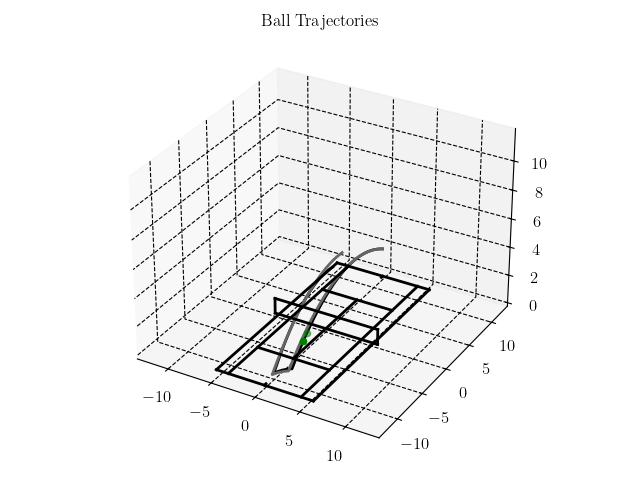
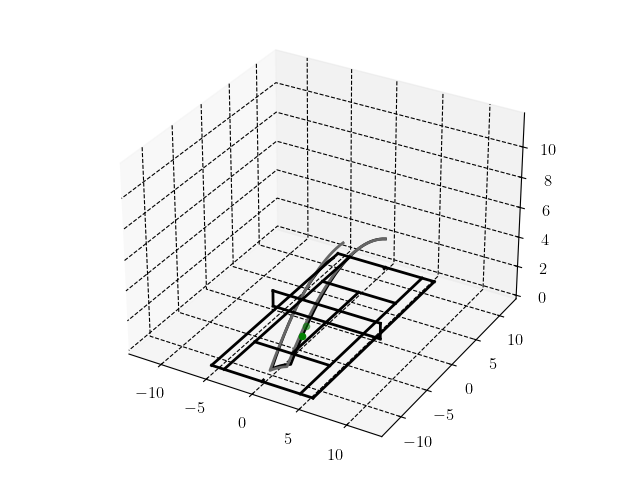
Update plots, update exports

diff --git a/vrgaze/tennis/models/datamodel.py b/vrgaze/tennis/models/datamodel.py
@@ -1,3 +1,4 @@
+import csv
 from dataclasses import dataclass, field
 from typing import List, Union
 
@@ -28,6 +29,10 @@ class Trial(Visitable):
 	test_id: int
 	block_number: int
 	ball_number: int
+	result_location_x: float
+	result_location_y: float
+	result_location_z: float
+	distance_to_closest_target: float
 	frames: List[Frame]
 	ball_events: List["Event"] = field(default_factory=list)
 	gaze_events: List["Event"] = field(default_factory=list)
@@ -80,6 +85,7 @@ class ExperimentalData(Visitable):
 			filepath (str): File path to save the results
 
 		Examples:
+			# Exporting data
 			>>> experts = load_condition("Experts", "example_data/tennis_data/experimental_condition")
 			>>> novices = load_condition("Novices", "example_data/tennis_data/experimental_condition")
 			>>>
@@ -88,8 +94,23 @@ class ExperimentalData(Visitable):
 			>>> data.analyze(GazeEvents())
 			>>>
 			>>> data.to_csv("example_results.csv")
-		"""
 
+			# Understanding the data
+			>>> "Condition": The name of the condition given when the data is loaded
+			>>> "Participant": The participant ID
+			>>> "Ball Number": The current ball number
+			>>> "Block Number": The current block number
+			>>> "Test": The current test number
+			>>> "Timestamp": The timestamp of the predictive saccade
+			>>> "Saccade Angle Amplitude": The angle amplitude of the predictive saccade [degrees]
+			>>> "Angle Ball-Gaze Start": The angle between the ball and the gaze direction at the start of the predictive saccade [degrees]
+			>>> "Angle Ball-Gaze End": The angle between the ball and the gaze direction at the end of the predictive saccade [degrees]
+			>>> "Result X": The x-coordinate of the ball's final position when hitting the ground
+			>>> "Result Y": The y-coordinate of the ball's final position when hitting the ground
+			>>> "Result Z": The z-coordinate of the ball's final position when hitting the ground
+			>>> "Distance To Target": The distance between the ball's final position and the closest target [meters]
+
+		"""
 
 		data = []
 		for condition in self.conditions:
@@ -97,9 +118,28 @@ class ExperimentalData(Visitable):
 			condition.analyze(exporter)
 			data.extend(exporter.data)
 
-		import csv
 		with open(filepath, 'w', newline='') as csvfile:
 			writer = csv.writer(csvfile, delimiter=',')
+
+			# write header
+			writer.writerow(
+				[
+					"Condition",
+					"Participant",
+					"Ball Number",
+					"Block Number",
+					"Test",
+					"Timestamp",
+					"Saccade Angle Amplitude",
+					"Angle Ball-Gaze Start",
+					"Angle Ball-Gaze End",
+					"Result X",
+					"Result Y",
+					"Result Z",
+					"Distance To Target"
+				]
+			)
+
 			for row in data:
 				writer.writerow(row)
 

diff --git a/vrgaze/tennis/services/plots.py b/vrgaze/tennis/services/plots.py
@@ -90,7 +90,6 @@ def plot_3d(data: ExperimentalData, show_predictive_saccades: bool = False) -> p
 					# filled point green at end
 					ax.scatter3D(end_x, end_y, end_z, color='green', marker='o', s=20, alpha=1)
 
-	ax.set_title("Ball Trajectories")
 	ax.set_aspect('equal')
 	ax.set_zlim(bottom=0)
 
@@ -178,12 +177,10 @@ def plot_gaze_ball_angle(data):
 		frame.gaze_origin_z
 	) for frame in frames]
 
-	# plot with aspect ratio 5:2
 	fig, (ax1, ax2, ax3) = plt.subplots(3, 1, figsize=(5,5), sharex=True)
 
 	timestamps = [frame.timestamp for frame in frames]
 	bounce_event = next((event for event in trial.ball_events if isinstance(event, FirstBounceEvent)), None)
-
 
 	# lambda time filter
 	seconds_to_show_after_bounce = 0
@@ -208,42 +205,10 @@ def plot_gaze_ball_angle(data):
 
 	ax1.set_ylim(y_limits)
 	ax1.invert_yaxis()
-
 	ax1.set_ylabel("Angle [deg]")
-	# ax1.legend(
-	# 	[
-	# 		"Ball-Gaze angle. Positive values indicate gaze is above the ball",
-	# 		"Ball Bounce",
-	# 		"Predictive Saccade"
-	# 	]
-	# )
-
-	# legend but outside of plot
-	# ax1.legend(
-	# 	[
-	# 		"Ball-Gaze angle. Positive values indicate gaze is above the ball",
-	# 		"Ball Bounce",
-	# 		"Predictive Saccade"
-	# 	],
-	# 	loc="upper center",
-	# 	bbox_to_anchor=(0.5, -0.1),
-	# 	fancybox=True,
-	# 	shadow=True,
-	# )
-
-	# # add a suptitle and a rich text description
-	# fig.suptitle("Ball-Gaze Angle", fontsize=16)
-	# fig.text(
-	# 	"Positive values indicate gaze is above the ball",
-	# 	ha="center",
-	# 	va="center",
-	# 	fontsize=12,
-	# 	y=0.95,
-	# 	s=0.95
-	# )
 
 
-	ax2.set_title("Ball-World Angle")
+	ax2.set_title("Gaze-World Angle")
 	gaze_world_y = [frame.gaze_direction_y for frame in frames]
 	gaze_world_z = [frame.gaze_direction_z for frame in frames]
 	gaze_world_angle = [Angles.calculate_gaze_world_angle(gaze_world_y[i], gaze_world_z[i]) for i in
@@ -252,8 +217,6 @@ def plot_gaze_ball_angle(data):
 	ax2.plot(filtered_timestamps, gaze_world_angle_at_timesteps)
 	ax2.set_ylabel("Angle [deg]")
 
-
-	# plot ball trajectory y in ax2
 	ax3.set_title("Ball Flight Curve")
 	ball_position_y_at_timesteps = [frame.ball_position_y for frame in frames if time_filter(frame.timestamp)]
 	ax3.plot(filtered_timestamps, ball_position_y_at_timesteps)

diff --git a/tests/tennis/test_read.py b/tests/tennis/test_read.py
@@ -27,7 +27,6 @@ class TestReadFiles(TestReader):
 		self.reader.read_files()
 		self.assertEqual(len(self.reader.participants[0].trials[0].frames), 232)
 
-
 	def test_should_find_two_participants(self):
 		self.reader.discover_files("example_data/tennis_data/experimental_condition")
 		self.reader.read_files()
@@ -43,6 +42,22 @@ class TestReadFiles(TestReader):
 		self.assertEqual(first_frame.gaze_direction_x, -0.01645234)
 		self.assertEqual(first_frame.gaze_direction_y, 0.05927261)
 		self.assertEqual(first_frame.gaze_direction_z, 0.9981007)
+
+	def test_should_read_results_location(self):
+		self.reader.discover_files("example_data/tennis_data/single_example_file")
+		self.reader.read_files()
+		result_x = self.reader.participants[0].trials[0].result_location_x
+		result_y = self.reader.participants[0].trials[0].result_location_y
+		result_z = self.reader.participants[0].trials[0].result_location_z
+		self.assertEqual(result_x, -2.881121)
+		self.assertEqual(result_y, 0.03343761)
+		self.assertEqual(result_z, 12.05697)
+
+	def test_should_read_result_distance_to_closest_target(self):
+		self.reader.discover_files("example_data/tennis_data/single_example_file")
+		self.reader.read_files()
+		result = self.reader.participants[0].trials[0].distance_to_closest_target
+		self.assertEqual(result, 3.108663)
 
 	def test_should_convert_timestamps_to_seconds_starting_at_0(self):
 		self.reader.discover_files("example_data/tennis_data/single_example_file")
@@ -60,6 +75,7 @@ class TestReadFiles(TestReader):
 		self.reader.discover_files("example_data/tennis_data/single_example_file")
 		self.reader.read_files()
 		self.assertAlmostEqual(self.reader.participants[0].trials[0].frames[1].timestamp, 0.011, delta=0.001)
+
 
 class TestValidator(TestCase):
 	def test_should_throw_error_if_header_is_different(self):

diff --git a/vrgaze/tennis/services/export.py b/vrgaze/tennis/services/export.py
@@ -4,19 +4,33 @@ from typing import List
 from vrgaze.tennis.models.abstraction import Visitable, Visitor
 from vrgaze.tennis.models.eventmodel import PredictiveSaccade
 
+
 @dataclass
 class CSVWriter(Visitor):
 	condition: str
 	data: List[str] = field(default_factory=list)
 
-	def visit(self, visitable: Visitable):
-		trial = visitable
+	def visit(self, trial: Visitable):
 		participant = trial.participant_id
 		ball_number = trial.ball_number
 		block_number = trial.block_number
 		test_id = trial.test_id
 		predictive_saccades = [event for event in trial.gaze_events if isinstance(event, PredictiveSaccade)]
 		for saccade in predictive_saccades:
-			self.data.append([self.condition, participant, ball_number, block_number, test_id, saccade.timestamp,
-							  saccade.angle_amplitude, saccade.angle_start, saccade.angle_end])
-
+			self.data.append(
+				[
+					self.condition,
+					participant,
+					ball_number,
+					block_number,
+					test_id,
+					f"{saccade.timestamp:.3f}",
+					f"{saccade.angle_amplitude:.3f}",
+					f"{saccade.angle_start:.3f}",
+					f"{saccade.angle_end:.3f}",
+					f"{trial.result_location_x:.3f}",
+					f"{trial.result_location_y:.3f}",
+					f"{trial.result_location_z:.3f}",
+					f"{trial.distance_to_closest_target:.3f}",
+				]
+			)

diff --git a/vrgaze/tennis/services/read.py b/vrgaze/tennis/services/read.py
@@ -71,13 +71,25 @@ class Reader:
 								gaze_direction_z=tobii_gazeray_direction_z,
 							)
 						)
+
+
+					last_line = content[end - last_frame].split(",")
+					result_location_x = float(last_line[14])
+					result_location_y = float(last_line[15])
+					result_location_z = float(last_line[16])
+					distance_to_closest_target = float(last_line[18])
+
 					trials.append(
 						Trial(
 							participant_id=int(parts[0]),
 							test_id=int(parts[1]),
 							block_number=int(parts[2]),
 							ball_number=int(parts[3]),
-							frames=frames
+							result_location_x=result_location_x,
+							result_location_y=result_location_y,
+							result_location_z=result_location_z,
+							distance_to_closest_target=distance_to_closest_target,
+							frames=frames,
 						)
 					)
 

diff --git a/vrgaze/tennis/services/ball_events.py b/vrgaze/tennis/services/ball_events.py
@@ -7,8 +7,8 @@ from vrgaze.tennis.models.eventmodel import Event, BallCrossesNetAfterServe, Bal
 
 
 class BallEvents(Visitor):
-	def visit(self, visitable: Visitable):
-		trial = visitable
+	def visit(self, trial: Visitable):
+		trial = trial
 		events = BallEventsCalculator(trial)
 		events.detect_ball_crosses_net()
 		events.identify_hit_with_racket()

diff --git a/vrgaze/tennis/services/gaze_events.py b/vrgaze/tennis/services/gaze_events.py
@@ -8,8 +8,8 @@ from vrgaze.tennis.models.eventmodel import Event, CorrectiveSaccade, Predictive
 
 
 class GazeEvents(Visitor):
-	def visit(self, visitable: Visitable):
-		trial = visitable
+	def visit(self, trial: Visitable):
+		trial = trial
 		events = GazeEventCalculator(trial)
 		events.calculate_saccades()
 		trial.gaze_events = events.events

diff --git a/vrgaze/tennis/models/abstraction.py b/vrgaze/tennis/models/abstraction.py
@@ -9,5 +9,5 @@ class Visitable(ABC):
 
 class Visitor(ABC):
 	@abstractmethod
-	def visit(self, visitable: Visitable):
+	def visit(self, trial: Visitable):
 		...
